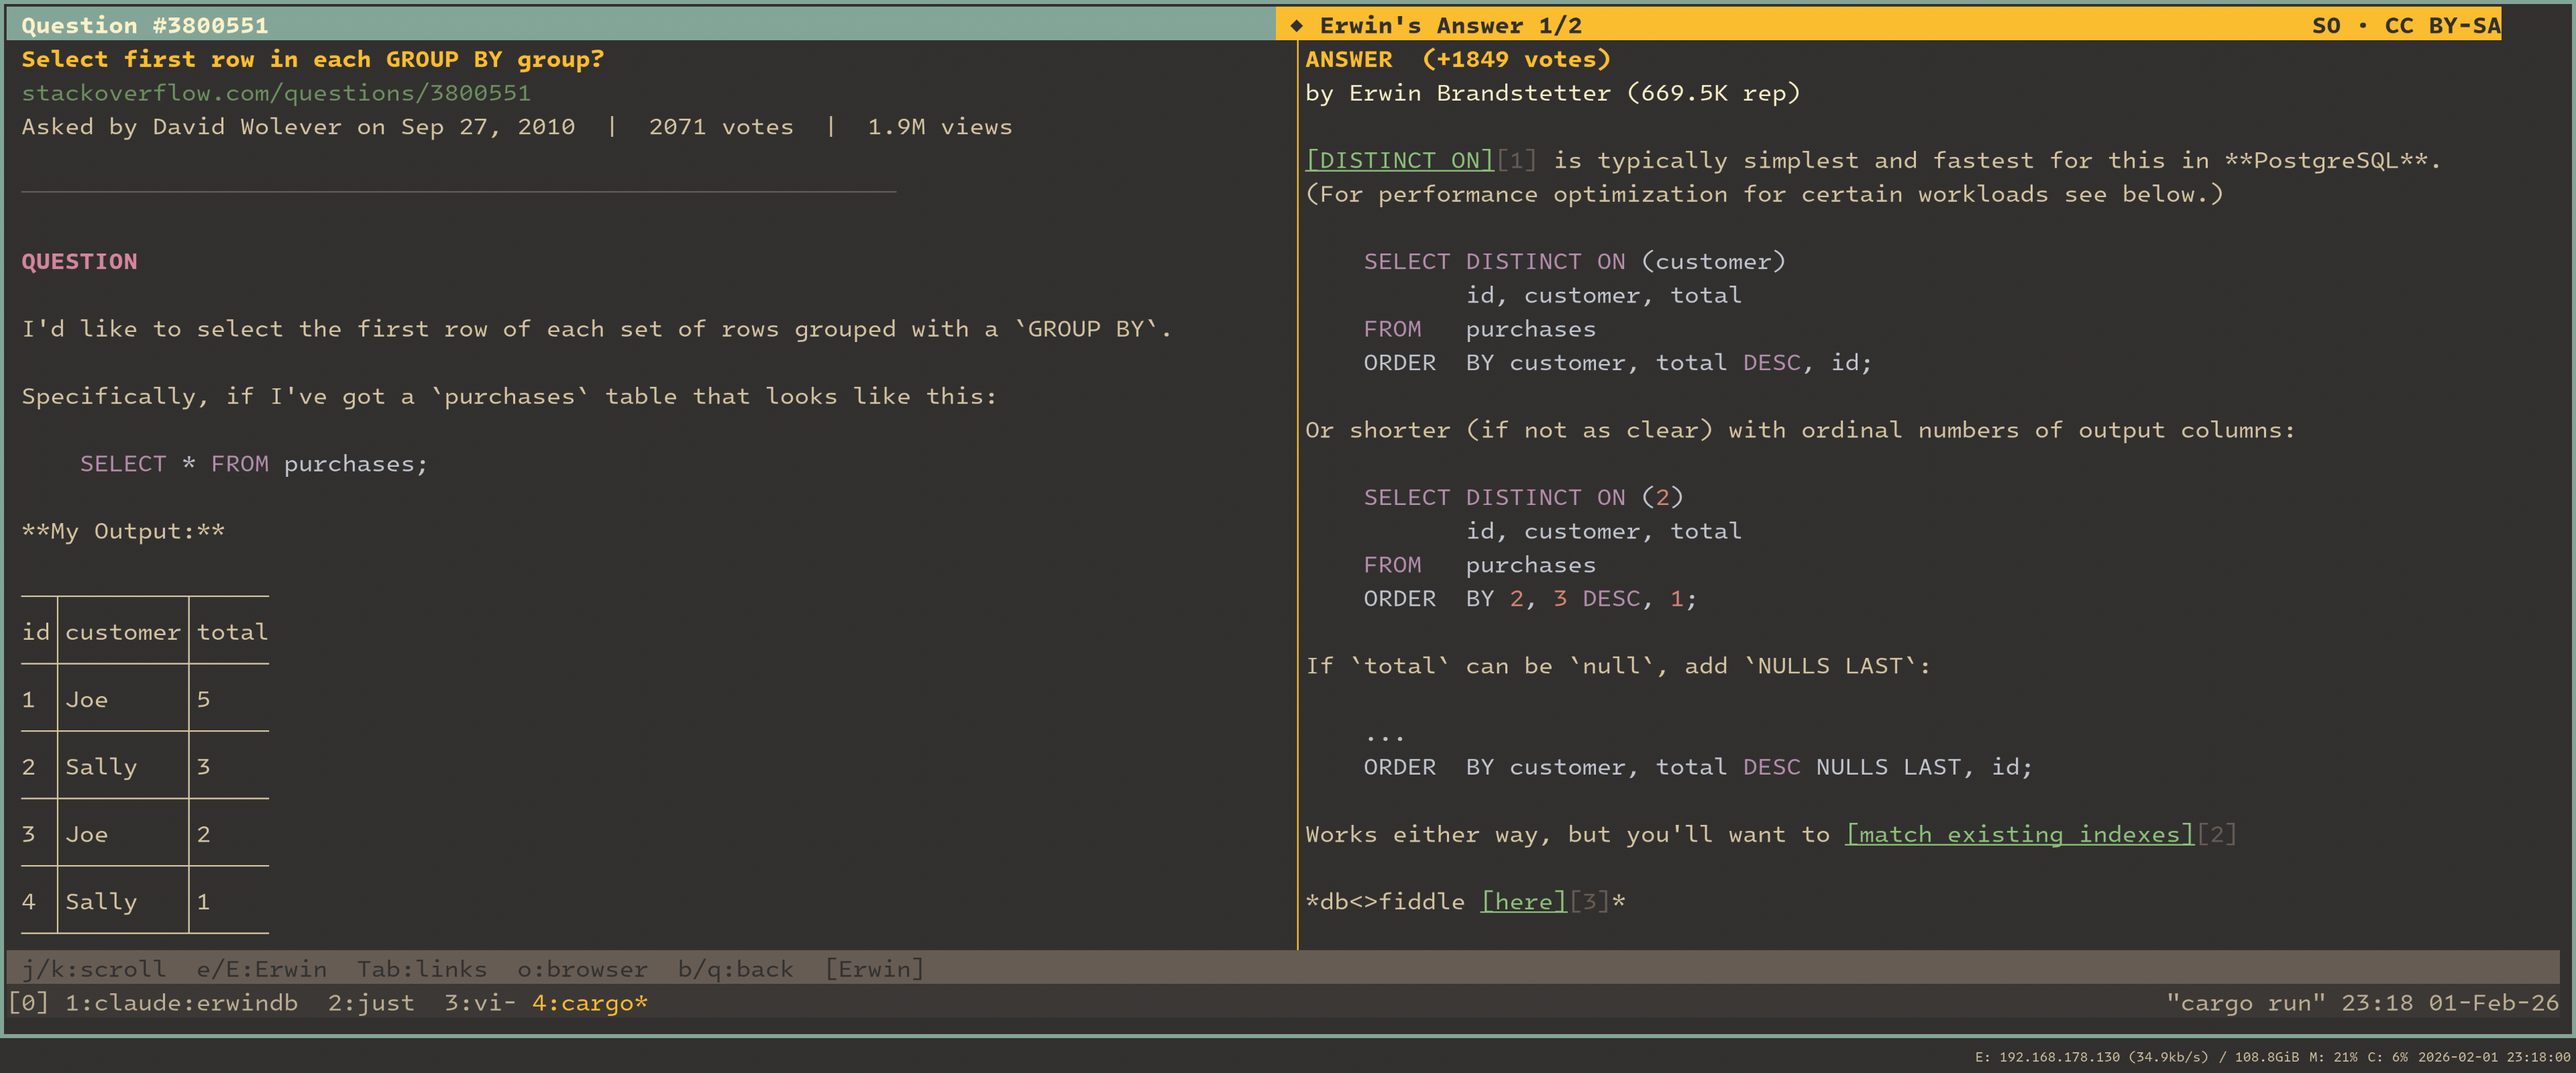
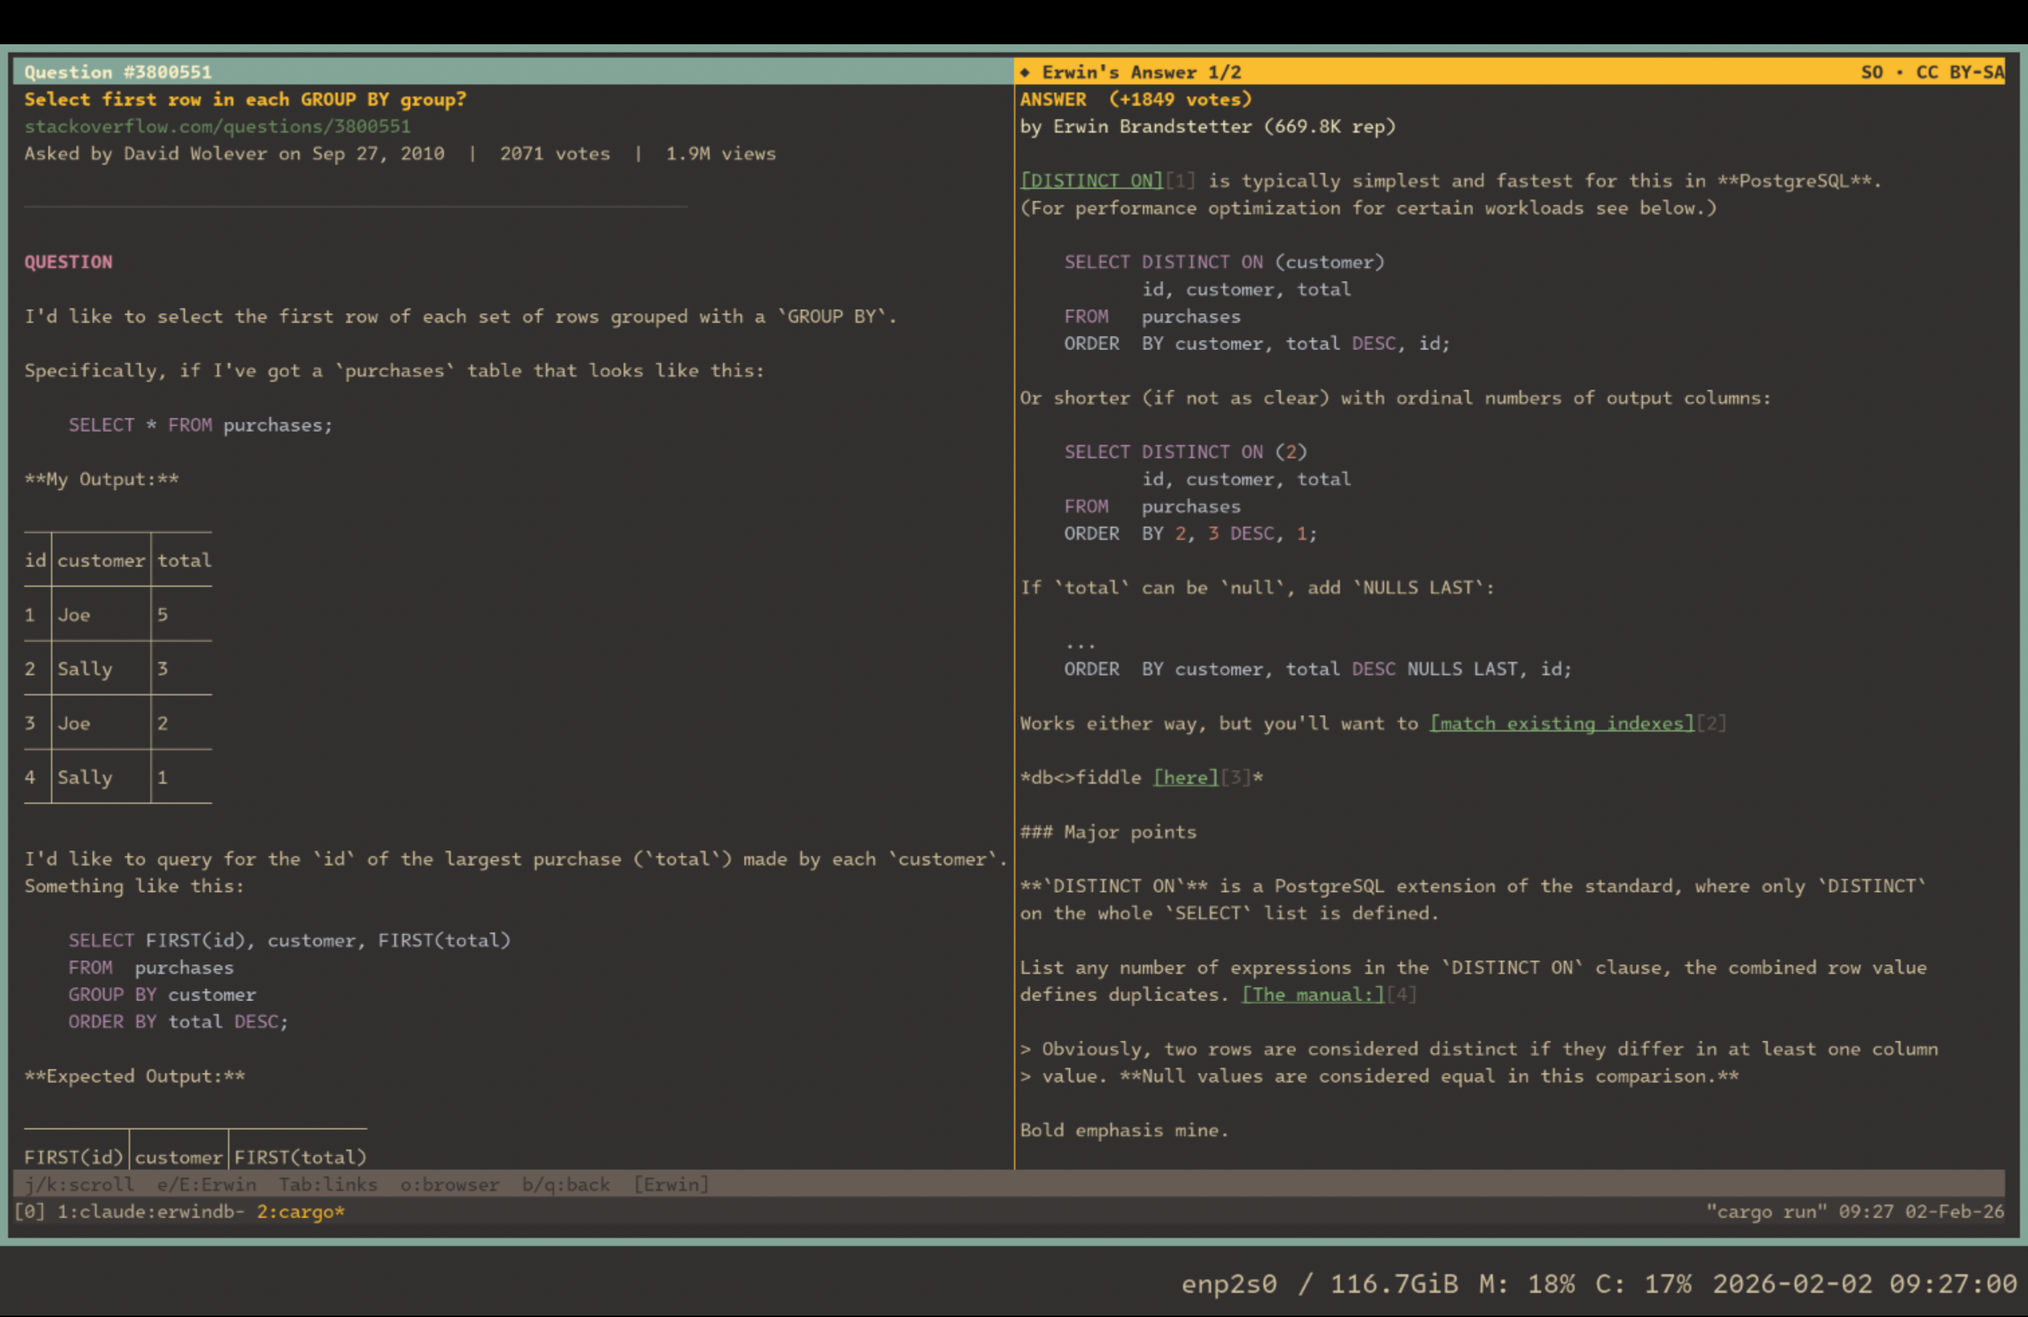
Improve dual-pane header alignment with half-block transition
Use a half-block character (▐) at the header split point for smoother
visual transition between Question and Erwin panes. Apply .style() to
Paragraph widgets to ensure background colors fill entire areas.

Also use Block padding for content left margin instead of layout-based
approach, and fix width calculations to use unicode-aware UnicodeWidthStr.

diff --git a/src/ui/show.rs b/src/ui/show.rs
@@ -5,6 +5,7 @@ use ratatui::{
     widgets::{Block, Borders, Paragraph, Wrap},
     Frame,
 };
+use unicode_width::UnicodeWidthStr;
 
 use super::styles;
 use crate::app::App;
@@ -22,27 +23,33 @@ pub fn draw_show(frame: &mut Frame, app: &mut App) {
         ])
         .split(size);
 
-    // Add 1 space left margin to content only
-    let content_with_margin = Layout::default()
-        .direction(Direction::Horizontal)
-        .constraints([Constraint::Length(1), Constraint::Min(1)])
-        .split(chunks[1]);
+    // Split position for dual-pane mode (simple half of screen width)
+    let split_pos = size.width / 2;
 
-    draw_header(frame, app, chunks[0], can_split);
-    draw_content(frame, app, content_with_margin[1], can_split);
+    draw_header(frame, app, chunks[0], can_split, split_pos);
+    draw_content(frame, app, chunks[1], can_split, split_pos);
     draw_status_bar(frame, app, chunks[2], can_split);
 }
 
-fn draw_header(frame: &mut Frame, app: &App, area: Rect, can_split: bool) {
+fn draw_header(frame: &mut Frame, app: &App, area: Rect, can_split: bool, split_pos: u16) {
     let attribution = "SO \u{00b7} CC BY-SA";
 
     if app.erwin_pane_visible && can_split {
-        let half_width = area.width / 2;
+        // Split header into two areas using Layout (matches content split)
+        let header_chunks = Layout::default()
+            .direction(Direction::Horizontal)
+            .constraints([
+                Constraint::Length(split_pos),
+                Constraint::Length(1),
+                Constraint::Min(1),
+            ])
+            .split(area);
+
         let erwin_count = app.erwin_answer_count();
 
         let left_title = format!(" Question #{} ", app.current_question_id);
         let right_title = format!(
-            " \u{25c6} Erwin's Answer {}/{} ",
+            "\u{25c6} Erwin's Answer {}/{} ",
             app.erwin_answer_index + 1,
             erwin_count
         );
@@ -65,48 +72,54 @@ fn draw_header(frame: &mut Frame, app: &App, area: Rect, can_split: bool) {
             styles::header_style()
         };
 
-        let left_padding = (half_width as usize).saturating_sub(left_title.len());
-        let right_padding = (half_width as usize)
-            .saturating_sub(right_title.len())
-            .saturating_sub(attribution.len());
+        // Render left header with background filling entire area
+        let left_header = Paragraph::new(Line::from(left_title)).style(left_style);
+        frame.render_widget(left_header, header_chunks[0]);
 
-        let header = Line::from(vec![
-            Span::styled(
-                format!("{}{}", left_title, " ".repeat(left_padding)),
-                left_style,
-            ),
-            Span::styled(
-                format!(
-                    "{}{}{}",
-                    right_title,
-                    " ".repeat(right_padding),
-                    attribution
-                ),
-                right_style,
-            ),
-        ]);
+        // Render half-block transition character
+        // ▐ (right half block): left half shows bg color, right half shows fg color
+        let transition_style = Style::default()
+            .fg(right_style.bg.unwrap_or(Color::Yellow))
+            .bg(left_style.bg.unwrap_or(Color::Cyan));
+        let transition = Paragraph::new(Line::from("\u{2590}")).style(transition_style);
+        frame.render_widget(transition, header_chunks[1]);
 
-        frame.render_widget(Paragraph::new(header), area);
+        // Render right header with attribution at end
+        let right_width = header_chunks[2].width as usize;
+        let right_padding = right_width
+            .saturating_sub(right_title.width())
+            .saturating_sub(attribution.width());
+        let right_header = Paragraph::new(Line::from(format!(
+            "{}{}{}",
+            right_title,
+            " ".repeat(right_padding),
+            attribution
+        )))
+        .style(right_style);
+        frame.render_widget(right_header, header_chunks[2]);
     } else {
         let title = format!(" Question #{} ", app.current_question_id);
         let padding = (area.width as usize)
-            .saturating_sub(title.len())
-            .saturating_sub(attribution.len());
+            .saturating_sub(title.width())
+            .saturating_sub(attribution.width());
 
-        let header = Line::from(vec![Span::styled(
-            format!("{}{}{}", title, " ".repeat(padding), attribution),
-            styles::header_style(),
-        )]);
+        let header = Paragraph::new(Line::from(format!(
+            "{}{}{}",
+            title,
+            " ".repeat(padding),
+            attribution
+        )))
+        .style(styles::header_style());
 
-        frame.render_widget(Paragraph::new(header), area);
+        frame.render_widget(header, area);
     }
 }
 
-fn draw_content(frame: &mut Frame, app: &mut App, area: Rect, can_split: bool) {
+fn draw_content(frame: &mut Frame, app: &mut App, area: Rect, can_split: bool, split_pos: u16) {
     if app.erwin_pane_visible && can_split {
         let chunks = Layout::default()
             .direction(Direction::Horizontal)
-            .constraints([Constraint::Percentage(50), Constraint::Percentage(50)])
+            .constraints([Constraint::Length(split_pos), Constraint::Min(1)])
             .split(area);
 
         draw_question_pane(frame, app, chunks[0]);
@@ -149,7 +162,11 @@ fn draw_question_pane(frame: &mut Frame, app: &mut App, area: Rect) {
         .collect();
 
     let content = Paragraph::new(visible_lines)
-        .block(Block::default().borders(Borders::NONE))
+        .block(
+            Block::default()
+                .borders(Borders::NONE)
+                .padding(ratatui::widgets::Padding::left(1)),
+        )
         .wrap(Wrap { trim: false });
 
     frame.render_widget(content, area);
@@ -288,7 +305,7 @@ fn draw_status_bar(frame: &mut Frame, app: &App, area: Rect, can_split: bool) {
             ),
         ]);
 
-        frame.render_widget(Paragraph::new(status), area);
+        frame.render_widget(Paragraph::new(status).style(styles::status_style()), area);
         return;
     }
 
@@ -308,10 +325,7 @@ fn draw_status_bar(frame: &mut Frame, app: &App, area: Rect, can_split: bool) {
         " j/k:scroll  Tab:links  o:browser  b/q:back".to_string()
     };
 
-    let status = Line::from(vec![Span::styled(
-        format!("{:<width$}", help, width = area.width as usize),
-        styles::status_style(),
-    )]);
+    let status = Line::from(vec![Span::styled(help, styles::status_style())]);
 
-    frame.render_widget(Paragraph::new(status), area);
+    frame.render_widget(Paragraph::new(status).style(styles::status_style()), area);
 }

diff --git a/src/app.rs b/src/app.rs
@@ -285,8 +285,10 @@ impl App {
             KeyCode::Char('0') => {
                 // Restore relevance sort (only meaningful during search)
                 if self.fuzzy_matches.is_some() {
-                    let selected_id =
-                        self.get_sorted_questions().get(self.selected_index).map(|q| q.id);
+                    let selected_id = self
+                        .get_sorted_questions()
+                        .get(self.selected_index)
+                        .map(|q| q.id);
                     self.sort_active = false;
                     if let Some(id) = selected_id {
                         let sorted = self.get_sorted_questions();
@@ -525,7 +527,10 @@ impl App {
 
     fn toggle_sort(&mut self, column: SortColumn) {
         // Remember the currently selected question
-        let selected_id = self.get_sorted_questions().get(self.selected_index).map(|q| q.id);
+        let selected_id = self
+            .get_sorted_questions()
+            .get(self.selected_index)
+            .map(|q| q.id);
 
         if self.sort_column == column && self.sort_active {
             self.sort_direction = match self.sort_direction {

diff --git a/src/ui/index.rs b/src/ui/index.rs
@@ -63,10 +63,7 @@ fn draw_header(frame: &mut Frame, app: &App, area: Rect) {
         }
     };
 
-    let header = Paragraph::new(Line::from(vec![Span::styled(
-        format!("{:<width$}", text, width = area.width as usize),
-        style,
-    )]));
+    let header = Paragraph::new(Line::from(text)).style(style);
     frame.render_widget(header, area);
 }
 
@@ -328,7 +325,7 @@ fn draw_status_bar(frame: &mut Frame, app: &App, area: Rect) {
     };
 
     let right_side = format!("{}{}", position, scroll_pct);
-    let help_width = area.width as usize - right_side.len() - 1;
+    let help_width = (area.width as usize).saturating_sub(right_side.len());
 
     let status = Line::from(vec![
         Span::styled(
@@ -338,7 +335,7 @@ fn draw_status_bar(frame: &mut Frame, app: &App, area: Rect) {
         Span::styled(right_side, styles::status_style()),
     ]);
 
-    frame.render_widget(Paragraph::new(status), area);
+    frame.render_widget(Paragraph::new(status).style(styles::status_style()), area);
 }
 
 fn format_date(timestamp: i64) -> String {
